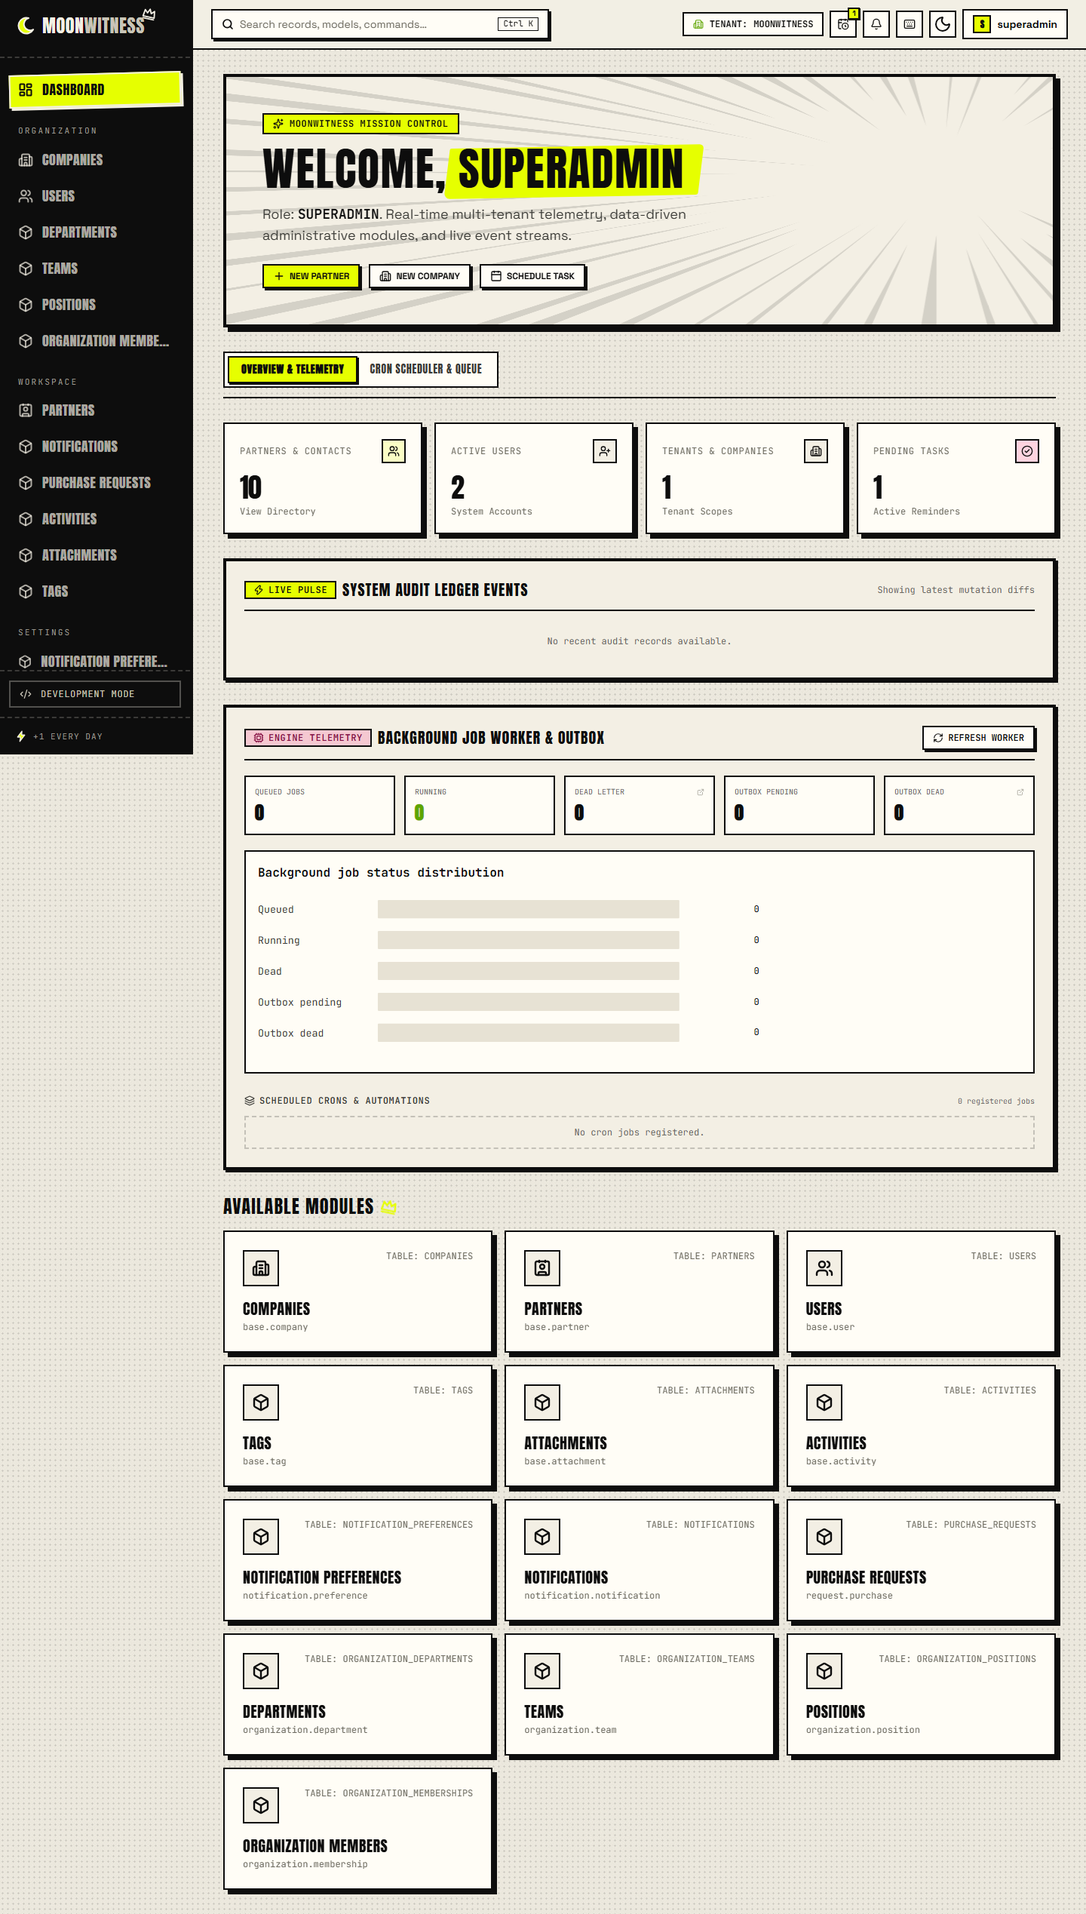
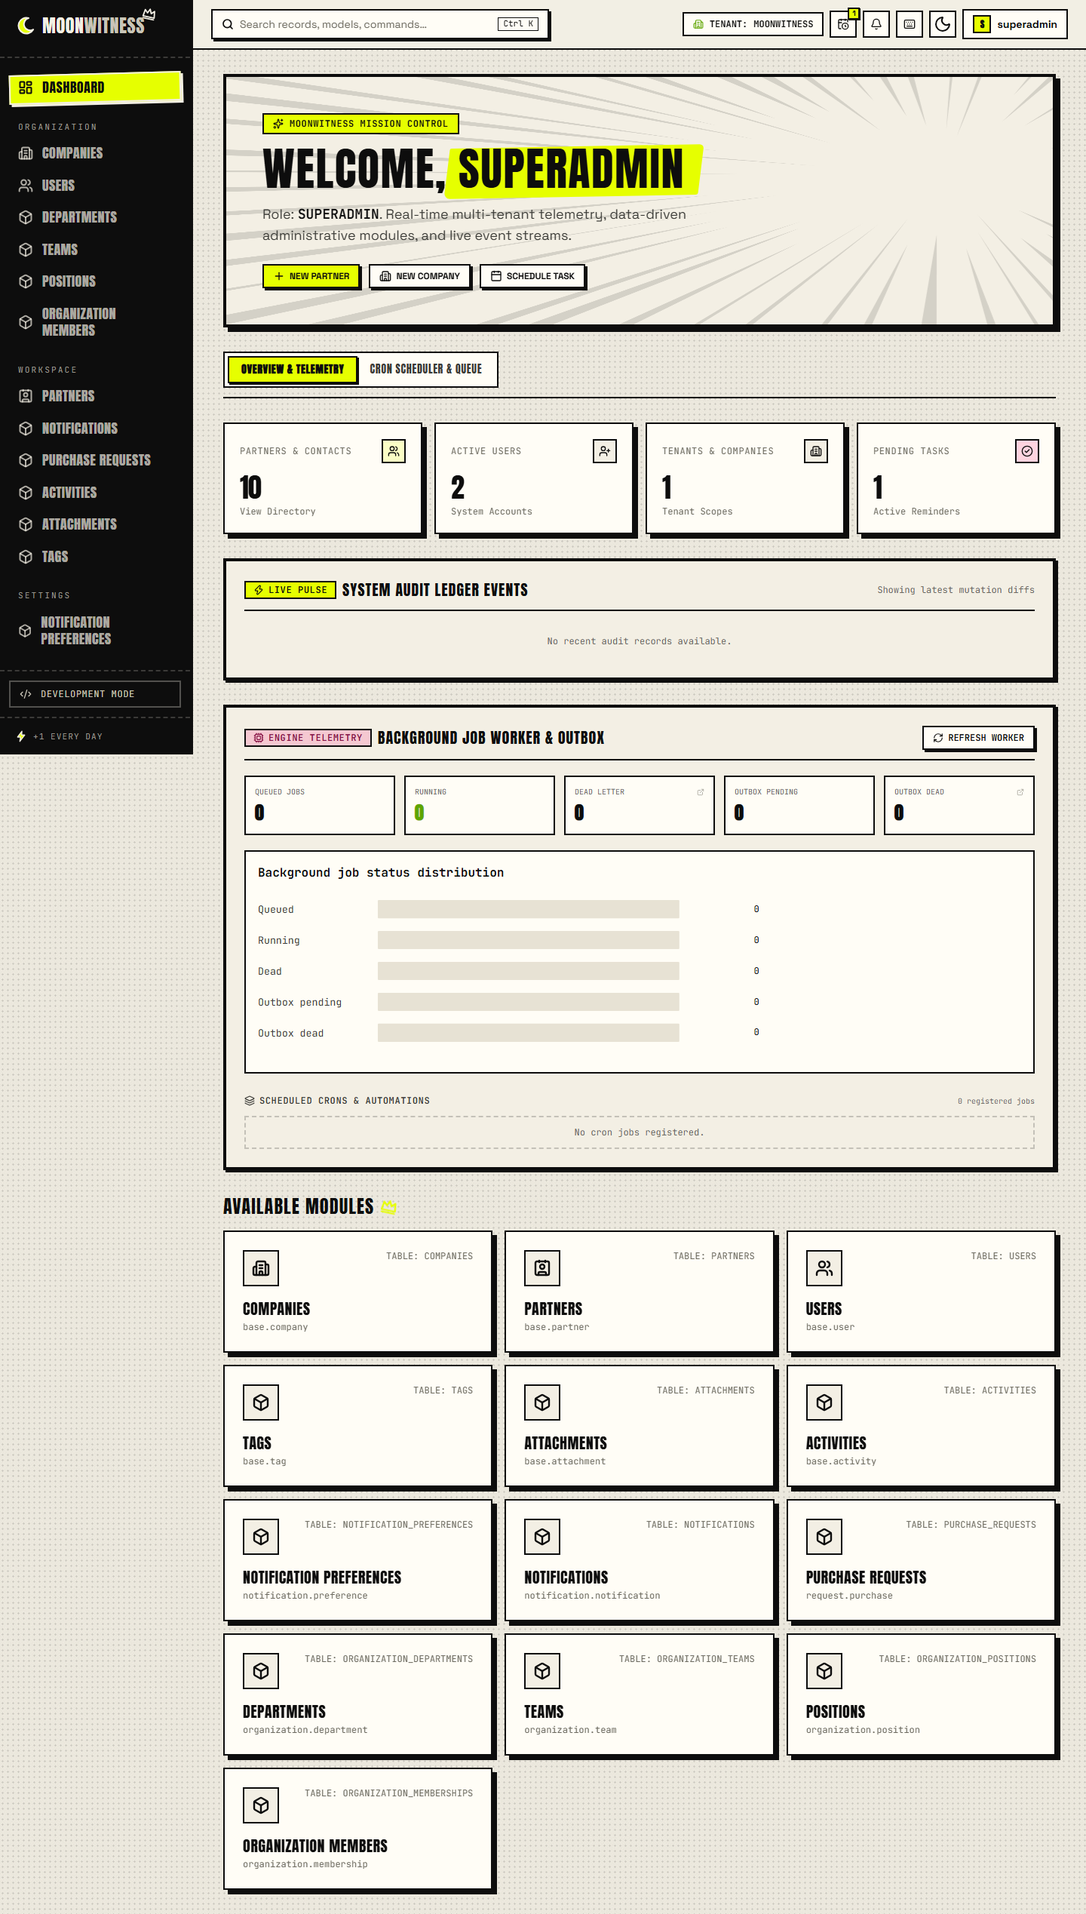
docs(roadmap): record current board visual audit

Changed region(s): [[0.0, 0.0311, 0.1562, 0.3737]]

diff --git a/docs/roadmap/evidence/M3.11.md b/docs/roadmap/evidence/M3.11.md
@@ -3,12 +3,12 @@
 ## Status
 
 - Status: implementation and local browser acceptance complete, including a reproducible responsive visual matrix across all three engines; hosted scheduled PostgreSQL matrix activation still awaits the workflow being available from GitHub's default branch.
-- Date: 2026-10-04.
+- Date: 2026-10-06 (current-source verification update).
 - Executor: Codex.
 - Prerequisites M3.03, M3.06 and M0.06 are recorded in the roadmap evidence.
 - Local source SHA for test changes: `623d0fdee1a00920a86d883c653ee99aa421aea8` on `dev`.
 - Source commit pushed: `623d0fd` (`test(board): add scheduled browser matrix coverage`).
-- Current local visual matrix source SHA: `7658dc31f4b74be491cf1c8b240e89068a26aa7d` on `dev`.
+- Current local visual matrix source SHA: `6d4989ee777890c9f77d2d251e63f2965b90b384` on `dev`.
 
 ## Coverage and implementation
 
@@ -21,15 +21,16 @@
 
 ## Verification
 
-| Command / scenario                                                                         | Result                                                                                                                                           | Evidence                                                                                                                                                     |
-| ------------------------------------------------------------------------------------------ | ------------------------------------------------------------------------------------------------------------------------------------------------ | ------------------------------------------------------------------------------------------------------------------------------------------------------------ |
-| Chromium full Board E2E                                                                    | Pass, 18 tests, one worker                                                                                                                       | Isolated local PostgreSQL; full suite on Chromium before cross-engine timing assertions were stabilized                                                      |
-| `CI=true MW_E2E_BROWSER_MATRIX=true POSTGRES_TEST_URL=... pnpm test:e2e --project=firefox` | Pass, 18 tests, one worker                                                                                                                       | Isolated local PostgreSQL; auth, session, CRUD, import/export, navigation, resilience and visual audit                                                       |
-| `CI=true MW_E2E_BROWSER_MATRIX=true POSTGRES_TEST_URL=... pnpm test:e2e --project=webkit`  | Pass, 18 tests, one worker                                                                                                                       | Isolated local PostgreSQL; same complete Board suite after record hydration stabilization                                                                    |
-| Firefox responsive login audit diagnostic run                                              | Initial failure exposed mid-animation opacity; rerun after the test fix passed                                                                   | Axe had reported the entire form while the parent Motion animation was incomplete                                                                            |
-| WebKit record-edit diagnostic run                                                          | Initial full run had one 90-second pending-button timeout; targeted test and full rerun passed after adding record-ready/save-enabled assertions | Retry screenshot showed unchanged input and disabled Save button, consistent with the hydration race                                                         |
-| `pnpm test:e2e:visual:matrix`                                                              | Pass, 6 tests; Chromium, Firefox and WebKit each passed both visual audit tests                                                                  | 30 route/viewport/theme combinations and 10 desktop axe scans per engine against isolated in-memory SQLite; 99 screenshots captured across the three engines |
-| `pnpm typecheck`, `pnpm lint`, `pnpm format:check`, `pnpm docs:check`                      | Pass on source SHA `7658dc3`                                                                                                                     | Full workspace build/typecheck, repository lint/format, generated reference, docs links, examples and ORM docs tests                                         |
+| Command / scenario                                                                         | Result                                                                                                                                                      | Evidence                                                                                                                                                     |
+| ------------------------------------------------------------------------------------------ | ----------------------------------------------------------------------------------------------------------------------------------------------------------- | ------------------------------------------------------------------------------------------------------------------------------------------------------------ |
+| Chromium full Board E2E                                                                    | Pass, 18 tests, one worker                                                                                                                                  | Isolated local PostgreSQL; full suite on Chromium before cross-engine timing assertions were stabilized                                                      |
+| `CI=true MW_E2E_BROWSER_MATRIX=true POSTGRES_TEST_URL=... pnpm test:e2e --project=firefox` | Pass, 18 tests, one worker                                                                                                                                  | Isolated local PostgreSQL; auth, session, CRUD, import/export, navigation, resilience and visual audit                                                       |
+| `CI=true MW_E2E_BROWSER_MATRIX=true POSTGRES_TEST_URL=... pnpm test:e2e --project=webkit`  | Pass, 18 tests, one worker                                                                                                                                  | Isolated local PostgreSQL; same complete Board suite after record hydration stabilization                                                                    |
+| Firefox responsive login audit diagnostic run                                              | Initial failure exposed mid-animation opacity; rerun after the test fix passed                                                                              | Axe had reported the entire form while the parent Motion animation was incomplete                                                                            |
+| WebKit record-edit diagnostic run                                                          | Initial full run had one 90-second pending-button timeout; targeted test and full rerun passed after adding record-ready/save-enabled assertions            | Retry screenshot showed unchanged input and disabled Save button, consistent with the hydration race                                                         |
+| `pnpm test:e2e:visual:matrix`                                                              | Pass, 6 tests on current source `6d4989e`; Chromium, Firefox and WebKit each passed both visual audit tests, including the full-label navigation assertions | 30 route/viewport/theme combinations and 10 desktop axe scans per engine against isolated in-memory SQLite; 99 screenshots captured across the three engines |
+| `pnpm docs:build`                                                                          | Pass on app source `6d4989e`; 19 guide pages and production Pages bundle built                                                                              | Docs checks, references, README, links, navigation, examples, portal base path and nested-route 404 fallback all verified.                                   |
+| `pnpm typecheck`, `pnpm lint`, `pnpm format:check`, `pnpm docs:check`                      | Pass on source SHA `6d4989e`                                                                                                                                | Full workspace build/typecheck, repository lint/format, generated reference, docs links, examples and ORM docs tests                                         |
 
 Hosted push CI on source SHA `623d0fdee1a00920a86d883c653ee99aa421aea8` passed plan, quality, automation/actionlint, PostgreSQL integration, containers and Chromium browser E2E in [run 37193778351](https://github.com/bjo163/moonwitness-xi/actions/runs/37193778351). PR validation passed the same implementation lanes in [run 37193781227](https://github.com/bjo163/moonwitness-xi/actions/runs/37193781227). Their final `ci-gate` jobs require the separate sensitive-promotion CODEOWNER approval.
 

diff --git a/ROADMAP.md b/ROADMAP.md
@@ -85,7 +85,7 @@ Urutan nomor bukan urutan aktivasi mutlak: misalnya required checks M1.06 baru d
 - [x] M3.08 Test import/export, attachment, activities, dan fitur Board lain jika ditemukan dalam inventarisasi. Bukti: [M3.08](docs/roadmap/evidence/M3.08.md), [push CI 37188917137](https://github.com/bjo163/moonwitness-xi/actions/runs/37188917137); seluruh technical lanes lulus setelah retry browser. Promotion PR #24 tetap menunggu approval CODEOWNER.
 - [x] M3.09 Uji error/empty/loading states, jaringan terputus, stale data, double submit, dan pencegahan kebocoran cache antar-user/company. Bukti: [M3.09](docs/roadmap/evidence/M3.09.md); 18 E2E, typecheck, lint, format, dan docs check lulus lokal.
 - [ ] M3.10 Simpan screenshot/trace saat gagal; buat visual baseline setelah audit manusia dan jangan auto-accept perubahan baseline. Tiga Linux Chromium pixel-diff snapshots, hosted Board E2E, artifact secret scan dan upload lulus pada CI `37347469966` (`336a19e`); aktivasi workflow visual-review manual masih menunggu workflow tersedia di `main`: [evidence](docs/roadmap/evidence/M3.10.md).
-- [ ] M3.11 Jalankan browser utama pada perubahan rutin dan browser tambahan pada regresi terjadwal; dokumentasikan coverage browser. `pnpm test:e2e:visual:matrix` kini lulus 6/6 Chromium/Firefox/WebKit, mencakup responsive/auth/theme/axe menggunakan fixture SQLite; PostgreSQL penuh pada hosted scheduled workflow masih menunggu promosi workflow ke `main`. [Evidence](docs/roadmap/evidence/M3.11.md).
+- [ ] M3.11 Jalankan browser utama pada perubahan rutin dan browser tambahan pada regresi terjadwal; dokumentasikan coverage browser. `pnpm test:e2e:visual:matrix` lulus 6/6 Chromium/Firefox/WebKit pada source `6d4989e`, mencakup responsive/auth/theme/axe menggunakan fixture SQLite; PostgreSQL penuh pada hosted scheduled workflow masih menunggu promosi workflow ke `main`. [Evidence](docs/roadmap/evidence/M3.11.md).
 
 ## M4 — Backend, ORM, base, dan reliability (jalur C)
 
@@ -189,7 +189,7 @@ Gate: audit fitur existing sebelum membuat package. Jalankan berurutan berdasark
 ## M10 — Acceptance dan pembuktian satu siklus nyata
 
 - [ ] M10.01 Semua 32 baris feature matrix punya status, P0/P1, owner, assertion dan gap di [feature coverage report](docs/engineering/feature-coverage.md); unit suite 225 tes dan docs check lulus pada `7cd6e85`, hosted PostgreSQL integration lulus pada app-source SHA `da46f85`, tetapi Board E2E gagal dan beberapa negative/access acceptance P0 masih terbuka. [Evidence](docs/roadmap/evidence/M10.01.md).
-- [ ] M10.02 Audit visual Board selesai dan bukti screenshot tersimpan; browser E2E tidak sekadar mengecek halaman terbuka. Local Chromium/Firefox/WebKit visual matrix lulus 6/6 pada 90 kombinasi responsive/theme dan 30 axe scan; PostgreSQL persisted-mutation serta permission-negative browser acceptance masih terbuka. [Evidence](docs/roadmap/evidence/M10.02.md).
+- [ ] M10.02 Audit visual Board selesai dan bukti screenshot tersimpan; browser E2E tidak sekadar mengecek halaman terbuka. Local Chromium/Firefox/WebKit visual matrix lulus 6/6 pada source `6d4989e`, mencakup 90 kombinasi responsive/theme dan 30 axe scan; screenshot review menemukan lalu memperbaiki clipping label navigasi sidebar. PostgreSQL persisted-mutation serta permission-negative browser acceptance masih terbuka. [Evidence](docs/roadmap/evidence/M10.02.md).
 - [ ] M10.03 Berjalan: `pnpm verify` lulus penuh pada working tree berbasis `60d34e9` setelah `pnpm docs:generate` menyegarkan lima output generated; 98 API tests, seluruh addon/UI/assets/release/architecture/docs checks dan portal build lulus. Item tetap terbuka sampai required hosted checks lulus pada exact SHA; hosted run/log status terbaru tidak dapat diverifikasi karena GitHub API HTTP 403. [Evidence](docs/roadmap/evidence/M10.03.md).
 - [ ] M10.04 PostgreSQL integration benar-benar berjalan; upgrade, relasi/count, seed, dan izin negatif teruji.
 - [ ] M10.05 Image API/Board berjalan pada runner; health/readiness/shutdown dan konfigurasi container terverifikasi.
@@ -249,8 +249,8 @@ Jadwal GitHub bersifat best-effort; selalu sediakan manual dispatch dan pemeriks
 | 2026-10-05 | M9.02       | Selesai  | `30d66aa`; CI 37291684398                         | Typed storage provider, kompatibilitas UUID attachment lama, bounded reconciliation dan API lifecycle tests lulus pada semua technical CI lanes; promosi sensitif menunggu CODEOWNER approval.                                                                            |
 | 2026-10-04 | M3.09       | Selesai  | local verification; source commit pending         | Query cache diskop per akun/company, retryable network errors, submit guard, dan 18 E2E lulus; hosted CI ditambahkan setelah push                                                                                                                                         |
 | 2026-10-06 | M3.10       | Berjalan | CI 37347469966; `336a19e`; `dev`                  | Tiga baseline Linux Chromium dan Board E2E/secret-scan lulus; workflow visual-review manual menunggu aktivasi di `main`. Temuan clipping Country tetap terbuka untuk fix khusus: [evidence](docs/roadmap/evidence/M3.10.md)                                               |
-| 2026-10-06 | M3.11       | Berjalan | `7658dc3`; local visual matrix                    | Chromium, Firefox, dan WebKit lulus 2 test masing-masing pada 30 kombinasi route/viewport/theme; weekly PostgreSQL browser matrix belum aktif hosted karena workflow belum dipromosikan ke `main`. [Evidence](docs/roadmap/evidence/M3.11.md)                             |
-| 2026-10-06 | M10.02      | Parsial  | `7658dc3`; 99 visual captures                     | Tiga browser engine lulus responsive/theme/accessibility visual audit dan screenshots terkini diperbarui; full PostgreSQL browser acceptance masih pending. [Evidence](docs/roadmap/evidence/M10.02.md)                                                                   |
+| 2026-10-06 | M3.11       | Berjalan | `6d4989e`; local visual matrix                    | Chromium, Firefox, dan WebKit lulus 2 test masing-masing pada 30 kombinasi route/viewport/theme; weekly PostgreSQL browser matrix belum aktif hosted karena workflow belum dipromosikan ke `main`. [Evidence](docs/roadmap/evidence/M3.11.md)                             |
+| 2026-10-06 | M10.02      | Parsial  | `6d4989e`; 99 visual captures                     | Visual review menemukan dan memperbaiki label model sidebar yang terpotong; matrix 3 engine lulus lagi, screenshot desktop diperbarui; PostgreSQL browser acceptance masih pending. [Evidence](docs/roadmap/evidence/M10.02.md)                                           |
 | 2026-10-04 | M4.01       | Selesai  | `89d0e82`; CI 37194587412                         | Matriks test memverifikasi model, field, relasi, view, menu, dan external seed reference pada manifest base.                                                                                                                                                              |
 | 2026-10-04 | M4.02       | Selesai  | `b60293a`; CI 37194587412                         | Fresh/idempotent install, legacy upgrade, edit preservation, seed identity, dan concurrent replica startup diverifikasi pada PostgreSQL 17.                                                                                                                               |
 | 2026-10-04 | M4.03       | Selesai  | `b60293a`; CI 37194587412                         | Default accounts dan password initialization/reset/hash protection diuji; command root mengambil `SUPERADMIN_PASSWORD` dari config.                                                                                                                                       |

diff --git a/docs/roadmap/evidence/M10.02.md b/docs/roadmap/evidence/M10.02.md
@@ -1,10 +1,10 @@
 # M10.02 — Board visual audit
 
-**Status: partial; local Chromium/Firefox/WebKit visual acceptance is verified, while PostgreSQL-backed browser and persisted-mutation acceptance remains open.** Fresh screenshots below were captured on 2026-10-06 from the current Board source after the mobile-header change (`f158658`). The current header uses a calendar icon for pending activities, a bell for notifications, and moves the mobile theme action into the user menu.
+**Status: partial; local Chromium/Firefox/WebKit visual acceptance is verified, while PostgreSQL-backed browser and persisted-mutation acceptance remains open.** Fresh screenshots below were captured on 2026-10-06 from Board source `6d4989e`. The audit also found that long model-menu labels were clipped on desktop; those labels now wrap in the shared navigation component and expose their full text as a tooltip.
 
 ## Environment and coverage
 
-- Source SHA: `7658dc31f4b74be491cf1c8b240e89068a26aa7d` (three-engine visual matrix and reusable runner).
+- Source SHA: `6d4989ee777890c9f77d2d251e63f2965b90b384` (three-engine visual matrix plus readable, tested long navigation labels).
 - Reproduction command: `pnpm test:e2e:visual:matrix`. It serves the actual Vite Board and API from the current checkout using the normal addon seed path against an isolated in-memory SQLite database. No PostgreSQL service, user database, or production service is accessed. This quick visual runner is separate from the standard PostgreSQL E2E gate.
 - Authenticated as the locally seeded `superadmin` account with the E2E-only password.
 - Ran `apps/board/e2e/visual-audit.spec.ts` on Chromium, Firefox, and WebKit on Windows: **6 tests passed (2 per engine)**. Login was exercised at 375px, 768px, and 1440px. Authenticated dashboard, partner list, partner form, profile, and settings were exercised at all three widths in both light and dark themes (30 route/viewport/theme combinations per engine; 90 total).
@@ -19,7 +19,7 @@
 - Follow-up header review found unlabeled company/user controls, two indistinguishable bell icons, and a theme button crowding the 375px header. Commit `f158658` adds accessible labels, distinguishes the activity icon, and moves the mobile theme action into the user menu. Current-source screenshots and Playwright assertions verify these controls; the activities button is labelled “Pending activities” and uses `CalendarClock`, while notifications is labelled “Notifications” and uses `Bell`.
 - The first browser run exposed two fragile partner-row locators because partner name and country are each rendered twice in the same row. The assertions now select an exact-text match. It also exposed a real responsive test defect: the theme matrix tried to use the desktop theme button at mobile width, where the button is intentionally hidden. The matrix now switches themes through the user menu on mobile. The complete local visual suite passes after these fixes.
 - The normal PostgreSQL browser fixture remains unrun: Docker is unavailable and `127.0.0.1:55432` has no PostgreSQL listener. Thus persisted mutation/readback, PostgreSQL behavior, and permission-negative browser paths remain pending. The local SQLite visual run does not replace those acceptance checks.
-- The committed PNG set has been regenerated from Chromium and manually reviewed for the mobile header. It includes desktop/mobile dashboard, partner, profile, settings, and login captures; the full 99-capture three-engine run is retained in ignored `test-results/visual-audit/` for local inspection. Windows-specific Playwright baselines were added for the three Chromium visual regression assertions so checks run repeatably on this platform.
+- The committed PNG set has been regenerated from Chromium and manually reviewed for the mobile header and the fixed desktop navigation labels. The desktop dashboard, partner list, profile and settings captures below are from `6d4989e`; mobile/login captures retain the previous verified source because this change only affects desktop sidebar text. The full 99-capture three-engine run is retained in ignored `test-results/visual-audit/`. Three Windows Playwright baselines were refreshed after reviewing the sidebar-only pixel differences; the visual regression tests pass without snapshot update mode.
 
 ## Evidence
 
@@ -27,6 +27,7 @@ Current-source screenshots are stored under `docs/roadmap/evidence/screenshots/`
 
 - `M10.02-login-desktop.png`
 - `M10.02-dashboard-desktop.png`
+- `M10.02-partners-desktop.png`
 - `M10.02-profile-desktop.png`
 - `M10.02-settings-desktop.png`
 - `M10.02-dashboard-mobile.png`
